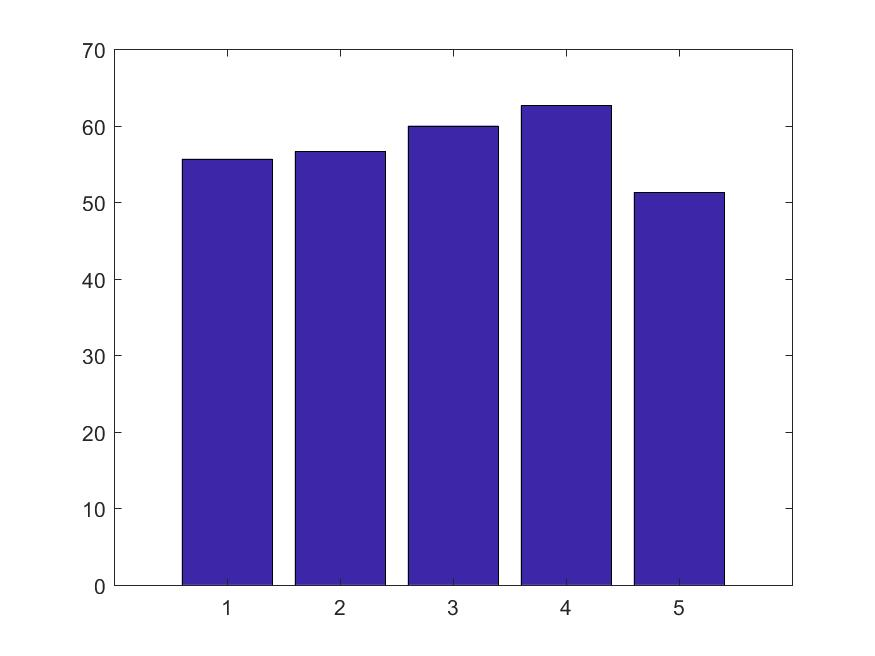
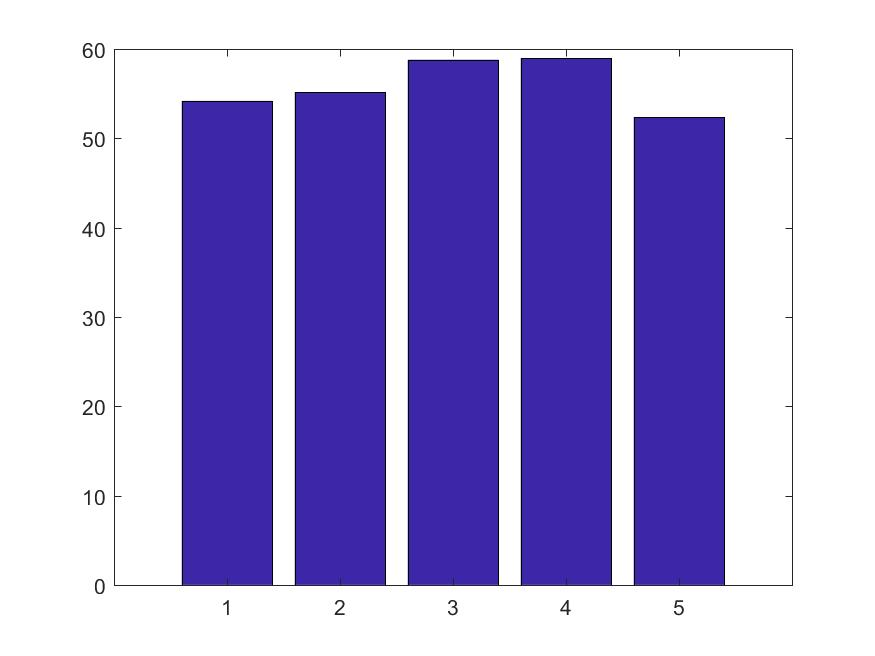
Made graphs based on survey results

diff --git a/processResults.m b/processResults.m
@@ -1,4 +1,4 @@
-participants = ["Daniela", "Andrew", "Matt"];
+participants = ["Daniela", "Andrew", "Matt", "Somaia", "Savvas"];
 
 results = [];
 userName = getenv('username');
